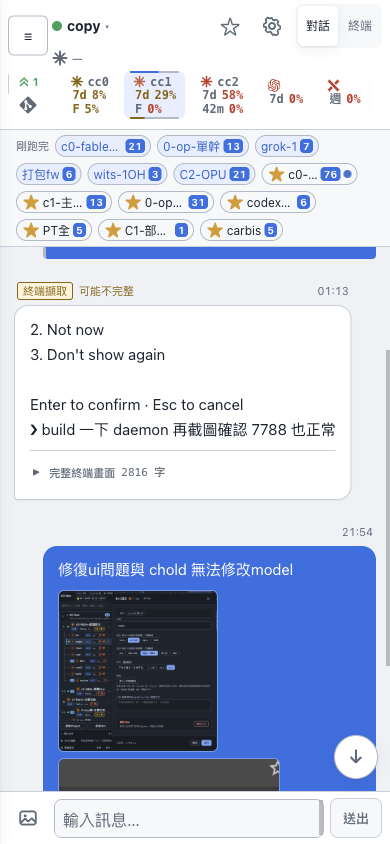
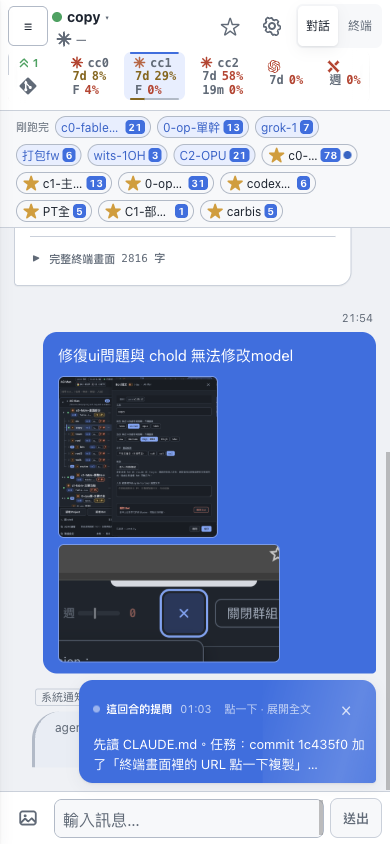
fix(web): 手機標題列的名字與 kind＋版本疊進 ★／⚙ 那一列，標題列 126 → 111px
Claude-Session: https://claude.ai/code/session_011uw6Ks6LNLE2KQTyqRPK4w

diff --git a/web/src/components/mobileBotHead.css b/web/src/components/mobileBotHead.css
@@ -26,30 +26,23 @@
     align-self: center;
   }
 
-  /* 名字＋★＋齒輪，底下那行 kind＋版本：靠上排，第一行跟分頁對齊。 */
+  /* 名字與 kind＋版本上下疊成兩行，總高跟旁邊 ★／⚙ 的 40px 對齊——標題列不必為了名字
+     再多一行。★／⚙ 在 DOM 裡是名字那一行的兄弟，這裡用絕對定位把它們拉出來靠右、
+     垂直置中跨兩行；名字那行留 84px 的右內距給它們。 */
   .main-head.bot-head > .main-title {
     grid-area: 1 / 2;
-    justify-content: flex-start;
+    position: relative;
+    justify-content: center;
+    gap: 0;
+    min-height: 40px;
   }
 
-  /* 名字那顆不撐高：它跟 ★／⚙ 同一行，行高由 40px 的鍵決定，名字本身只要文字加一點內距。
-     （styles.css 手機區塊把 `.bot-name-btn` 拉到 40px 觸控高度，這裡收回——整顆
-     `.bot-switcher-btn` 仍是可點的，高度靠 `align-items: stretch` 跟上鍵的 40px。） */
   .main-head.bot-head .main-title-row {
-    align-items: stretch;
-  }
-
-  .main-head.bot-head .main-title-row > .lamp {
-    align-self: center;
-  }
-
-  .main-head.bot-head .main-title-row > .bot-switcher > .bot-name-btn {
     min-height: 0;
-    height: auto;
-    padding: 1px 4px;
+    padding-right: 84px;
   }
 
-  /* 名字那叢吃掉第一行所有剩餘寬度；★ 與齒輪靠右貼著分頁，名字短的時候也不跟過去。 */
+  /* 名字那叢吃掉剩餘寬度，短名字時 ★／⚙ 也不跟過去。 */
   .main-head.bot-head .main-title-row > .bot-switcher {
     flex: 1 1 auto;
     min-width: 0;
@@ -57,17 +50,32 @@
 
   .main-head.bot-head .main-title-row > .bot-switcher > .bot-name-btn {
     max-width: 100%;
+    min-height: 0;
+    height: auto;
+    padding: 1px 4px;
   }
 
-  .main-head.bot-head .main-title-row > .primary-star {
-    flex: none;
-    width: 36px;
-    min-width: 36px;
-    margin-left: auto;
+  .main-head.bot-head .main-title-row > .primary-star,
+  .main-head.bot-head .main-title-row > .icon-btn.gear {
+    position: absolute;
+    top: 50%;
+    transform: translateY(-50%);
+    margin: 0;
   }
 
   .main-head.bot-head .main-title-row > .icon-btn.gear {
-    flex: none;
+    right: 0;
+  }
+
+  .main-head.bot-head .main-title-row > .primary-star {
+    right: 44px;
+    width: 36px;
+    min-width: 36px;
+  }
+
+  .main-head.bot-head .mobile-bot-version {
+    min-height: 0;
+    padding-left: 4px;
   }
 
   .main-head.bot-head > .tabs {

diff --git a/docs/UI-DECISIONS.md b/docs/UI-DECISIONS.md
@@ -1020,7 +1020,7 @@ selector 回**純布林**（`.ready.some(...)`）而不是陣列：`updateBatchC
 
 - **位置是使用者指定的**：第一行 ☰、名字、★、⚙、分頁（★ 在齒輪左邊，桌機也一樣順序）；
   第二行 kind 圖示＋版本號貼在名字底下；git 鍵放額度列最左邊、「更新」chip 的正下方。
-  兩顆小鍵疊在 54px 高的額度列裡，標題列高度 126 → 127，名字拿回約 150px。
+  名字與 kind＋版本上下疊在同一個 40px 列裡（★／⚙ 絕對定位靠右跨兩行），標題列 126 → 111px。
 - **git 與 ★ 都不能砍**：★ 只有標題列這一個入口，git 鍵是手機上開 repo／git／context 列的
   唯一入口，不在「有第二份」的可讓名單裡。
 - **git 鍵用跟齒輪同一種灰**：常駐入口染成 git 橘會被讀成「這裡有狀況」。
